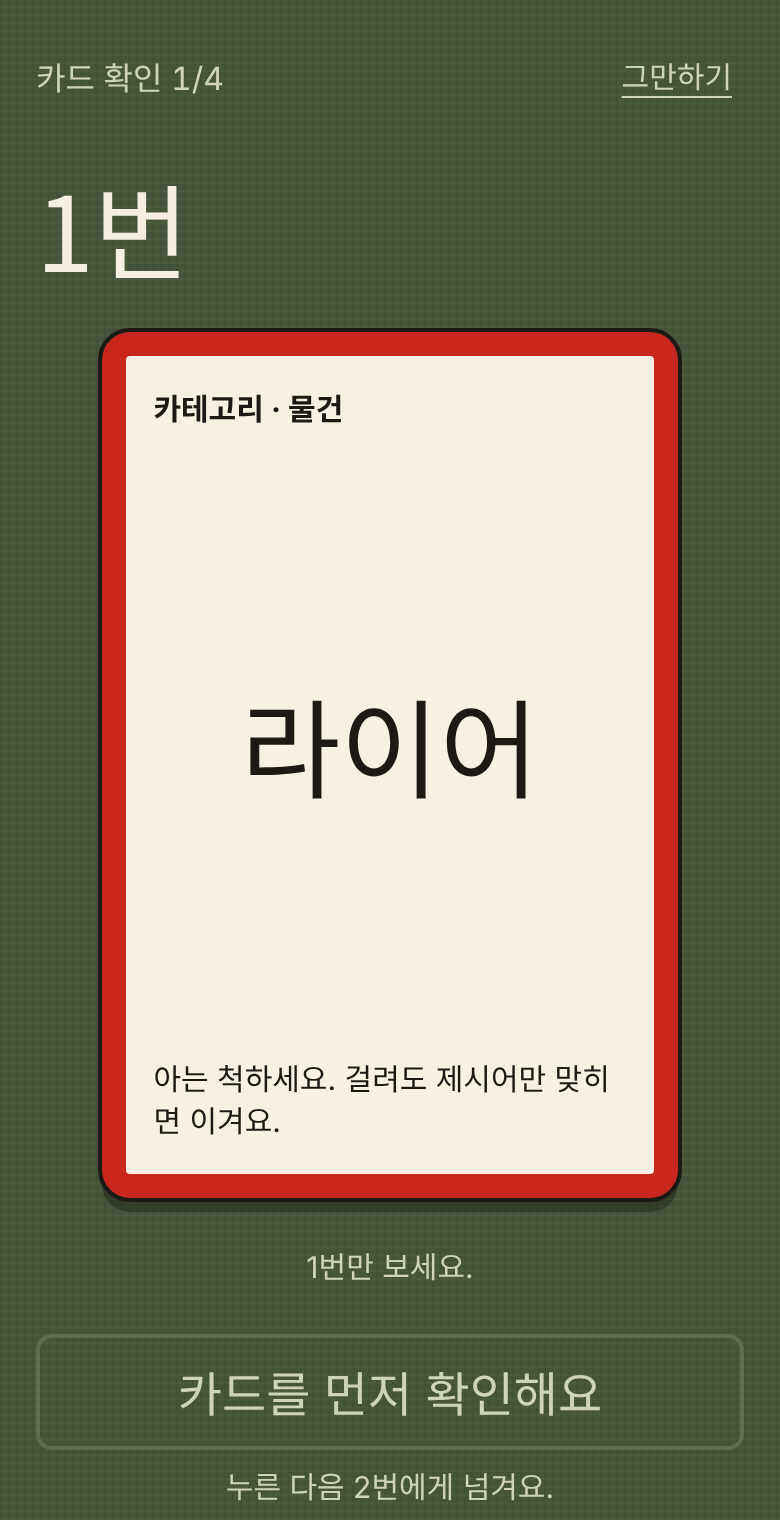
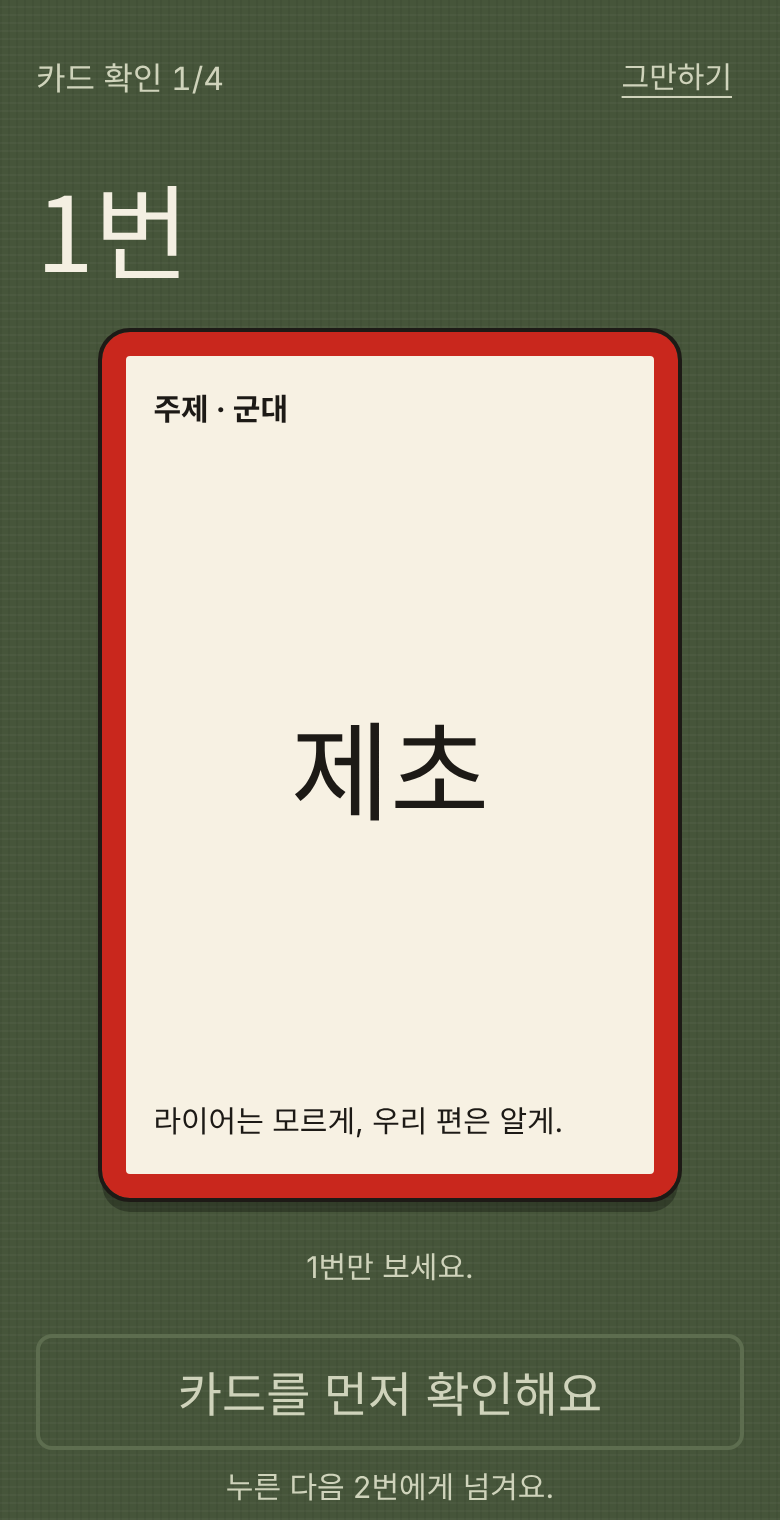
주제를 48개로 늘리고 AI로 단어 채우기 추가
- 기본 주제 8개 -> 48개 (주제마다 단어 20개)
- 주제 목록을 접었다 펴고 전체 선택/해제
- 주제 이름만 적으면 Claude가 단어를 채워 줌 (Claude 아티팩트에서만)
- 화면 용어를 카테고리에서 주제로 통일
- 테스트에 기본 주제 검사와 AI 채우기 추가

Claude-Session: https://claude.ai/code/session_01N2Wa5YXu4LxH5pypAMPZBK

diff --git a/index.html b/index.html
@@ -76,6 +76,7 @@ textarea{min-height:84px;resize:vertical}
 .btn:active:not(:disabled){transform:translateY(2px)}
 .acts{display:flex;flex-direction:column;gap:8px;margin-top:auto}
 .acts .row{display:flex;justify-content:space-between}
+.btn.half{flex:1 1 0;width:auto}
 .acts.stick{position:sticky;bottom:0;padding:10px 0 12px;margin-bottom:-12px;background:var(--felt)}
 header,.stage>div:not([class]),.col>div:not([class]){display:flex;flex-direction:column;gap:8px}
 
@@ -146,27 +147,67 @@ header,.stage>div:not([class]),.col>div:not([class]){display:flex;flex-direction
 'use strict';
 var BUILTIN={
  '음식':['김치찌개','떡볶이','삼겹살','치킨','피자','초밥','라면','비빔밥','짜장면','햄버거','냉면','김밥','파스타','순대국','마라탕','돈가스','족발','칼국수','불고기','타코'],
- '동물':['강아지','고양이','코끼리','기린','펭귄','호랑이','돌고래','토끼','판다','캥거루','독수리','악어','고슴도치','수달','낙타','문어','여우','하마','올빼미','카멜레온'],
+ '분식':['순대','튀김','어묵','쫄면','만두','핫도그','토스트','컵밥','주먹밥','라볶이','우동','잔치국수','비빔국수','김말이','오징어튀김','계란빵','닭꼬치','떡꼬치','군만두','치즈 김밥'],
+ '과일':['사과','배','포도','수박','참외','딸기','바나나','망고','복숭아','자두','귤','오렌지','파인애플','키위','체리','블루베리','감','석류','멜론','레몬'],
+ '채소':['배추','무','당근','양파','마늘','오이','가지','호박','시금치','상추','깻잎','고추','파프리카','브로콜리','감자','고구마','버섯','콩나물','대파','토마토'],
+ '디저트':['마카롱','티라미수','붕어빵','호떡','빙수','아이스크림','와플','도넛','케이크','푸딩','탕후루','약과','크루아상','초콜릿','젤리','츄러스','에그타르트','찹쌀떡','쿠키','소금빵'],
+ '음료':['아메리카노','콜라','사이다','식혜','수정과','우유','두유','녹차','버블티','레모네이드','스무디','핫초코','에너지 드링크','이온 음료','매실차','유자차','카페라테','토마토 주스','탄산수','미숫가루'],
+ '술과 안주':['소주','맥주','막걸리','와인','하이볼','소맥','위스키','칵테일','노가리','골뱅이무침','먹태','닭발','오돌뼈','계란말이','어묵탕','파전','마른오징어','감자튀김','두부김치','나초'],
+ '편의점':['삼각김밥','컵라면','도시락','바나나우유','핫바','소시지','샌드위치','컵얼음','숙취해소제','캔커피','초코바','껌','생수','구운 계란','요구르트','봉지 과자','호빵','즉석 떡볶이','택배 접수','1+1 행사'],
  '장소':['편의점','찜질방','노래방','공항','도서관','놀이공원','영화관','병원','헬스장','수영장','지하철역','PC방','미용실','캠핑장','박물관','백화점','야구장','고속도로 휴게소','워터파크','전통시장'],
- '직업':['의사','소방관','요리사','유튜버','경찰','선생님','파일럿','프로게이머','아이돌','변호사','택배기사','바리스타','농부','기자','수의사','통역사','사진작가','개발자','아나운서','헬스 트레이너'],
- '스포츠':['축구','야구','농구','배드민턴','탁구','수영','볼링','골프','테니스','스키','양궁','태권도','클라이밍','서핑','마라톤','배구','복싱','컬링','펜싱','당구'],
- '물건':['우산','충전기','칫솔','선풍기','냉장고','이어폰','안경','손톱깎이','드라이기','전자레인지','리모컨','베개','지갑','보조배터리','슬리퍼','텀블러','마스크','가위','시계','거울'],
+ '동네 가게':['세탁소','철물점','문구점','빵집','정육점','꽃집','약국','안경점','부동산','카페','치킨집','분식집','중국집','당구장','네일숍','사진관','은행','우체국','주민센터','떡집'],
+ '집':['거실','부엌','화장실','베란다','현관','옷장','침대','소파','식탁','책상','신발장','창문','천장','계단','옥상','지하실','다락방','마당','차고','엘리베이터'],
  '여행지':['제주도','부산','도쿄','오사카','파리','뉴욕','방콕','다낭','하와이','런던','로마','강릉','경주','타이베이','홍콩','바르셀로나','삿포로','싱가포르','여수','발리'],
- '여행 중':['여권','면세점','숙소','렌터카','기내식','조식 뷔페','셀카봉','환전','야시장','온천','기념품','비행기 지연','멀미','캐리어','일출','바비큐','불꽃놀이','계곡','게스트하우스','노을']
+ '여행 중':['여권','면세점','숙소','렌터카','기내식','조식 뷔페','셀카봉','환전','야시장','온천','기념품','비행기 지연','멀미','캐리어','일출','바비큐','불꽃놀이','계곡','게스트하우스','노을'],
+ '캠핑과 펜션':['텐트','모닥불','마시멜로','랜턴','침낭','모기향','해먹','아이스박스','숯','장작','코펠','버너','별 보기','수영장','노래방 기계','폭죽','고기 굽기','설거지 당번','늦잠','단체 사진'],
+ '한국 도시':['서울','부산','대구','인천','광주','대전','울산','수원','춘천','강릉','전주','경주','여수','목포','제주','속초','안동','통영','포항','천안'],
+ '나라':['미국','일본','중국','프랑스','영국','독일','이탈리아','스페인','브라질','호주','캐나다','인도','태국','베트남','이집트','튀르키예','멕시코','러시아','스위스','아르헨티나'],
+ '놀이공원':['롤러코스터','바이킹','회전목마','범퍼카','자이로드롭','관람차','귀신의 집','후룸라이드','머리띠','퍼레이드','자유이용권','대기 줄','회전컵','사파리','솜사탕','우선 탑승권','미아보호소','기념품 가게','야간 개장','교복 대여'],
+ '직업':['의사','소방관','요리사','유튜버','경찰','선생님','파일럿','프로게이머','아이돌','변호사','택배기사','바리스타','농부','기자','수의사','통역사','사진작가','개발자','아나운서','헬스 트레이너'],
+ '학교':['급식','수학여행','체육대회','조회','야자','매점','교무실','칠판','사물함','반장','시험','방학','교복','종례','급훈','짝꿍','운동장','보건실','도서실','졸업식'],
+ '과목':['국어','수학','영어','과학','사회','역사','체육','음악','미술','도덕','기술','가정','한문','물리','화학','생물','지리','정보','지구과학','윤리'],
+ '대학 생활':['수강신청','MT','개강','종강','과제','조별 과제','학점','동아리','축제','휴학','복학','장학금','자취','학식','교수님','시험 기간','밤샘','졸업 논문','새내기','과잠'],
+ '회사':['회식','야근','월급','연차','회의','출근','퇴근','점심 메뉴','명함','보고서','사직서','승진','인턴','팀장','재택근무','워크숍','법인카드','탕비실','면접','성과급'],
+ '군대':['훈련소','행군','불침번','PX','휴가','전역','이등병','병장','점호','유격','화생방','짬밥','관물대','생활관','위병소','제초','초코파이','군화','깔깔이','예비군'],
+ '돈':['용돈','적금','주식','로또','세금','대출','이자','현금','카드','더치페이','축의금','세뱃돈','월세','전세','보너스','비상금','코인','저금통','환율','연말정산'],
+ '물건':['우산','충전기','칫솔','선풍기','냉장고','이어폰','안경','손톱깎이','드라이기','전자레인지','리모컨','베개','지갑','보조배터리','슬리퍼','텀블러','마스크','가위','시계','거울'],
+ '가전':['세탁기','에어컨','청소기','TV','공기청정기','식기세척기','건조기','밥솥','에어프라이어','가습기','제습기','로봇청소기','정수기','인덕션','전기장판','믹서기','토스터','커피머신','안마의자','스피커'],
+ '옷':['청바지','후드티','패딩','코트','정장','한복','수영복','잠옷','양말','모자','목도리','장갑','운동화','구두','원피스','조끼','레깅스','넥타이','반바지','트레이닝복'],
+ '문구':['연필','지우개','볼펜','형광펜','자','풀','테이프','스테이플러','포스트잇','공책','필통','샤프','수정테이프','컴퍼스','클립','색연필','크레파스','다이어리','계산기','스티커'],
+ '탈것':['버스','지하철','택시','기차','비행기','배','자전거','오토바이','킥보드','트럭','구급차','소방차','케이블카','헬리콥터','요트','잠수함','열기구','스쿠터','캠핑카','유모차'],
+ '신체':['눈','코','입','귀','손','발','무릎','팔꿈치','어깨','배꼽','눈썹','혀','이마','턱','손톱','발바닥','엉덩이','목','머리카락','새끼손가락'],
+ '동물':['강아지','고양이','코끼리','기린','펭귄','호랑이','돌고래','토끼','판다','캥거루','독수리','악어','고슴도치','수달','낙타','문어','여우','하마','올빼미','카멜레온'],
+ '바다 생물':['고래','상어','오징어','해파리','불가사리','거북이','새우','게','가재','조개','해마','가오리','참치','고등어','멸치','복어','바다표범','산호','전복','성게'],
+ '곤충과 벌레':['나비','벌','개미','모기','파리','매미','잠자리','메뚜기','사마귀','무당벌레','바퀴벌레','거미','지렁이','달팽이','장수풍뎅이','사슴벌레','반딧불이','귀뚜라미','송충이','노린재'],
+ '날씨와 자연':['비','눈','태풍','번개','무지개','안개','우박','황사','폭염','한파','장마','소나기','이슬','서리','지진','화산','파도','일식','오로라','별똥별'],
+ '명절과 기념일':['설날','추석','크리스마스','어린이날','어버이날','밸런타인데이','핼러윈','빼빼로데이','광복절','한글날','새해','스승의날','만우절','김장','벚꽃놀이','단풍놀이','첫눈','복날','대보름','생일'],
+ '색깔':['빨강','주황','노랑','초록','파랑','남색','보라','분홍','하늘색','갈색','검정','하양','회색','금색','은색','베이지','민트','연두','자주','카키'],
+ '스포츠':['축구','야구','농구','배드민턴','탁구','수영','볼링','골프','테니스','스키','양궁','태권도','클라이밍','서핑','마라톤','배구','복싱','컬링','펜싱','당구'],
+ '취미':['낚시','등산','캠핑','독서','뜨개질','요리','사진','그림','춤','노래','러닝','요가','필라테스','헬스','자전거','게임','영화 감상','여행','베이킹','식물 키우기'],
+ '악기':['피아노','기타','드럼','바이올린','첼로','플루트','트럼펫','색소폰','하모니카','리코더','우쿨렐레','장구','가야금','꽹과리','탬버린','실로폰','베이스','오카리나','캐스터네츠','트라이앵글'],
+ '음악 장르':['발라드','힙합','트로트','록','재즈','클래식','EDM','R&B','동요','국악','케이팝','인디','레게','메탈','OST','민요','캐럴','디스코','펑크','자장가'],
+ '영화 장르':['로맨스','액션','공포','코미디','SF','판타지','스릴러','다큐멘터리','애니메이션','뮤지컬','전쟁','좀비','재난','범죄','사극','히어로','추리','성장','청춘','첩보'],
+ '게임':['롤','오버워치','배틀그라운드','마인크래프트','스타크래프트','메이플스토리','카트라이더','FC 온라인','서든어택','테트리스','포켓몬','동물의 숲','젤다','마리오 카트','로블록스','발로란트','디아블로','리니지','던전앤파이터','쿠키런'],
+ '놀이와 보드게임':['윷놀이','화투','젠가','루미큐브','할리갈리','마피아','부루마불','체스','바둑','장기','오목','다트','포커','우노','숨바꼭질','무궁화 꽃이 피었습니다','공기놀이','딱지치기','제기차기','땅따먹기'],
+ '옛이야기와 동화':['흥부와 놀부','콩쥐팥쥐','심청전','춘향전','토끼와 거북이','해와 달이 된 오누이','선녀와 나무꾼','혹부리 영감','금도끼 은도끼','개미와 베짱이','신데렐라','백설공주','인어공주','피노키오','빨간 모자','아기 돼지 삼형제','헨젤과 그레텔','잭과 콩나무','미운 오리 새끼','성냥팔이 소녀'],
+ '초능력과 판타지':['투명 인간','순간 이동','시간 여행','하늘 날기','독심술','염력','불사신','변신','괴력','예지력','드래곤','마법사','요정','유니콘','뱀파이어','늑대인간','좀비','인어','도깨비','구미호'],
+ '인터넷':['인스타그램','유튜브','카카오톡','틱톡','넷플릭스','네이버','구글','좋아요','댓글','구독','라이브 방송','쇼츠','밈','이모티콘','단톡방','프로필 사진','스토리','알고리즘','언팔','읽음 표시'],
+ '감정':['기쁨','슬픔','분노','설렘','질투','부끄러움','외로움','뿌듯함','억울함','지루함','긴장','후회','그리움','짜증','감동','놀람','공포','안도','민망함','허무함'],
+ '연애':['썸','소개팅','고백','첫사랑','짝사랑','이별','기념일','커플링','데이트','밀당','프러포즈','결혼식','권태기','재회','읽씹','애칭','환승','삼각관계','장거리 연애','100일']
 };
 var KEY='liar-party-v1', MINP=3, MAXP=12, GUARD=350;
 var app=document.getElementById('app');
-var S, R=null, T=null, audio=null, lastScreen=null, lastKey=null, lastRenderAt=0;
+var S, R=null, T=null, AI=null, audio=null, lastScreen=null, lastKey=null, lastRenderAt=0;
 
 function defaults(){
   return {players:[1,2,3,4].map(function(i){return {name:'',score:0};}),
     mode:'basic',liars:1,spy:false,cats:Object.keys(BUILTIN),custom:{},
     speakSec:30,laps:1,discussSec:120,screen:'setup',used:[],draft:{name:'',words:''},draftErr:'',
-    namesOpen:false,catOpen:false,quit:false,skip:false};
+    namesOpen:false,catOpen:false,catsOpen:false,aiBusy:false,quit:false,skip:false};
 }
 function loadSaved(){ try{ return JSON.parse(localStorage.getItem(KEY)||'null')||{}; }catch(e){ return {}; } }
 function save(){
-  try{ localStorage.setItem(KEY,JSON.stringify({players:S.players,mode:S.mode,liars:S.liars,spy:S.spy,cats:S.cats,custom:S.custom,speakSec:S.speakSec,laps:S.laps,discussSec:S.discussSec,used:S.used,
+  try{ localStorage.setItem(KEY,JSON.stringify({players:S.players,mode:S.mode,liars:S.liars,spy:S.spy,cats:S.cats,custom:S.custom,speakSec:S.speakSec,laps:S.laps,discussSec:S.discussSec,used:S.used,catsV:2,
     round:(R&&S.screen!=='setup')?{R:R,screen:S.screen,at:Date.now()}:null})); }catch(e){}
 }
 function esc(s){ return String(s).replace(/[&<>"']/g,function(c){return {'&':'&amp;','<':'&lt;','>':'&gt;','"':'&quot;',"'":'&#39;'}[c];}); }
@@ -183,6 +224,17 @@ function batchim(s){
   return false;
 }
 function jo(i,a,b){ var s=raw(i); return esc(s)+(batchim(s)?a:b); }
+/* Words from a typed list or from an AI answer: a JSON array if there is one, otherwise lines and commas. */
+function parseWords(text){
+  var out=[], seen={}, a=text.indexOf('['), b=text.lastIndexOf(']'), list=null;
+  if(a>=0&&b>a){ try{ list=JSON.parse(text.slice(a,b+1)); }catch(e){ list=null; } }
+  if(!Array.isArray(list)) list=text.split(/[,\n]/);
+  list.forEach(function(w){
+    w=String(w).replace(/^[\s\-*·\d.)"'\[]+|[\s"'\],.]+$/g,'');
+    if(w&&w.length<=20&&!seen[w]&&out.length<40){ seen[w]=1; out.push(w); }
+  });
+  return out;
+}
 function maxLiars(n,spy){ return Math.max(1,n-(spy?1:0)); }
 function clamp(){
   var n=S.players.length;
@@ -321,23 +373,27 @@ function vSetup(){
 
   h+='<section class="sec"><h2>규칙</h2>'+
     '<div class="line"><span>모드</span>'+seg('mode',[['basic','기본'],['fool','바보']],S.mode)+'</div>'+
-    '<p class="note">'+(S.mode==='basic'?'라이어는 카테고리만 알아요.':'라이어는 다른 단어를 받고, 자기가 라이어인 줄 몰라요.')+'</p>'+
+    '<p class="note">'+(S.mode==='basic'?'라이어는 주제만 알아요.':'라이어는 다른 단어를 받고, 자기가 라이어인 줄 몰라요.')+'</p>'+
     '<div class="line"><span>라이어</span><div class="count"><button type="button" class="sq" data-a="liars" data-d="-1" aria-label="라이어 줄이기"'+(S.liars<=1?' disabled':'')+'>−</button><b>'+S.liars+'명</b><button type="button" class="sq" data-a="liars" data-d="1" aria-label="라이어 늘리기"'+(S.liars>=mL?' disabled':'')+'>+</button></div></div>'+
     (S.liars+(S.spy?1:0)>=n?'<p class="warn">시민이 한 명도 없는 판이에요. 점수는 안 매겨요.</p>':(S.mode==='fool'&&S.liars*2>=n?'<p class="warn">라이어가 절반 이상이면 가짜 단어가 다수가 돼요.</p>':''))+
     '<div class="line"><span>스파이</span>'+(n<4?'<span class="note" style="text-align:right">4명부터 넣을 수 있어요</span>':seg('spy',[['0','없음'],['1','1명']],S.spy?'1':'0'))+'</div>'+
     (S.spy?'<p class="note">스파이는 제시어를 알지만 라이어 편이에요.</p>':'')+'</section>';
 
-  h+='<section class="sec"><h2>제시어</h2><div class="tiles">'+Object.keys(cats).map(function(c){
+  var names=Object.keys(cats).sort(function(x,y){ return (S.custom[y]?1:0)-(S.custom[x]?1:0); });
+  var onN=names.filter(function(c){return S.cats.indexOf(c)>=0;}).length;
+  h+='<section class="sec"><div class="line"><h2>주제</h2><button type="button" class="text" data-a="cats-toggle">'+(S.catsOpen?'접기':'고르기')+'</button></div>'+
+    '<p class="note">'+names.length+'개 중 '+(onN?onN+'개에서':'전부에서')+' 무작위로 나와요.</p>';
+  if(S.catsOpen) h+='<div class="line"><button type="button" class="btn sm half" data-a="cats-all">전체 선택</button><button type="button" class="btn sm half" data-a="cats-none">전체 해제</button></div><div class="tiles">'+names.map(function(c){
     var on=S.cats.indexOf(c)>=0, cu=!!S.custom[c];
-    return '<span class="tile'+(on?' on':'')+'"><button type="button" data-a="cat" data-c="'+esc(c)+'" aria-pressed="'+on+'">'+(on?'✓ ':'')+esc(c)+' <small>'+cats[c].length+'</small></button>'+(cu?'<button type="button" class="rm" data-a="del-cat" data-c="'+esc(c)+'" aria-label="'+esc(c)+' 지우기">×</button>':'')+'</span>';
+    return '<span class="tile'+(on?' on':'')+'"><button type="button" data-a="cat" data-c="'+esc(c)+'" aria-pressed="'+on+'">'+(on?'✓ ':'')+esc(c)+'</button>'+(cu?'<button type="button" class="rm" data-a="del-cat" data-c="'+esc(c)+'" aria-label="'+esc(c)+' 지우기">×</button>':'')+'</span>';
   }).join('')+'</div>';
-  if(!S.cats.length) h+='<p class="warn">하나도 안 고르면 기본 카테고리 전체에서 나와요.</p>';
   if(S.catOpen) h+='<div class="form">'+
-    '<input type="text" id="ccName" maxlength="14" placeholder="카테고리 이름" value="'+esc(S.draft.name)+'" aria-label="카테고리 이름">'+
+    '<input type="text" id="ccName" maxlength="14" placeholder="주제 (예: 우리 과 교수님)" value="'+esc(S.draft.name)+'" aria-label="주제 이름">'+
+    (AI?'<button type="button" class="btn sm" data-a="ai-fill"'+(S.aiBusy?' disabled':'')+'>'+(S.aiBusy?'AI가 채우는 중…':'AI로 단어 채우기')+'</button>':'<p class="note">AI로 단어 채우기는 Claude에서 열었을 때만 쓸 수 있어요.</p>')+
     '<textarea id="ccWords" placeholder="단어를 쉼표나 줄바꿈으로 나눠서 4개 이상" aria-label="단어 목록">'+esc(S.draft.words)+'</textarea>'+
     (S.draftErr?'<p class="warn">'+esc(S.draftErr)+'</p>':'')+
-    '<button type="button" class="btn sm" data-a="add-cat">카테고리 저장</button><button type="button" class="text" data-a="cat-close">닫기</button></div>';
-  else h+='<button type="button" class="btn sm" data-a="cat-open">+ 카테고리 직접 만들기</button>';
+    '<button type="button" class="btn sm" data-a="add-cat">주제 저장</button><button type="button" class="text" data-a="cat-close">닫기</button></div>';
+  else h+='<button type="button" class="btn sm" data-a="cat-open">+ 주제 직접 만들기'+(AI?' · AI로 채우기':'')+'</button>';
   h+='</section>';
 
   h+='<section class="sec"><h2>시간</h2>'+
@@ -358,7 +414,7 @@ function scoreRows(deltas){
 }
 function wordSize(w){ return w.length<=4?'':(w.length<=7?' m':' s'); }
 function cardFace(i){
-  var r=R.roles[i], fool=S.mode==='fool', kind='카테고리 · '+esc(R.cat);
+  var r=R.roles[i], fool=S.mode==='fool', kind='주제 · '+esc(R.cat);
   if(r==='liar'&&!fool) return '<div class="kind">'+kind+'</div><div class="word">라이어</div><div class="tip">아는 척하세요. 걸려도 제시어만 맞히면 이겨요.</div>';
   if(r==='spy') return '<div class="kind">'+kind+' · 스파이</div><div class="word'+wordSize(R.word)+'">'+esc(R.word)+'</div><div class="tip">라이어 편이에요. 라이어가 안 잡히게 도와주세요.</div>';
   var w=(r==='liar')?R.fake:R.word;
@@ -380,7 +436,7 @@ function orderHTML(cur){
 }
 function vReady(){
   var p=R.order[0];
-  return topBar(esc(R.cat))+'<div class="stage"><div><h1 class="name xl" tabindex="-1">'+nm(p)+'부터</h1><p class="lead">카테고리는 '+esc(R.cat)+'. 한 문장씩 돌아가며 설명해요.</p></div>'+orderHTML(p)+'</div>'+
+  return topBar(esc(R.cat))+'<div class="stage"><div><h1 class="name xl" tabindex="-1">'+nm(p)+'부터</h1><p class="lead">주제는 '+esc(R.cat)+'. 한 문장씩 돌아가며 설명해요.</p></div>'+orderHTML(p)+'</div>'+
     '<div class="acts"><button type="button" class="btn go" data-a="begin">설명 시작</button></div>';
 }
 function vSpeak(){
@@ -476,16 +532,39 @@ var ACT={
   'liars':function(d){ S.liars+=+d.d; clamp(); },
   'cat':function(d){ var i=S.cats.indexOf(d.c); if(i>=0) S.cats.splice(i,1); else S.cats.push(d.c); },
   'del-cat':function(d){ delete S.custom[d.c]; clamp(); },
+  'cats-toggle':function(){ S.catsOpen=!S.catsOpen; },
+  'cats-all':function(){ S.cats=Object.keys(allCats()); },
+  'cats-none':function(){ S.cats=[]; },
+  'ai-fill':function(){
+    var topic=S.draft.name.trim();
+    if(!topic){ S.draftErr='주제를 먼저 적어 주세요.'; return; }
+    if(!AI||S.aiBusy) return;
+    S.aiBusy=true; S.draftErr='';
+    var done=function(){ S.aiBusy=false; if(S.screen==='setup') render(); };
+    AI('라이어 게임에 쓸 제시어를 만들어 줘.\n주제: '+topic+'\n조건: 이 주제에 속하는 한국어 단어나 짧은 명사구 20개. 한국의 20~30대 친구들이 대부분 아는 것만. 서로 겹치거나 너무 비슷한 것은 빼고, 하나는 12자 이내. 비속어와 혐오 표현은 빼.\n출력: JSON 문자열 배열 하나만. 다른 말은 쓰지 마.',{modelTier:'quick',cache:false}).then(function(res){
+      var got=parseWords(res&&res.text||''), have=parseWords(S.draft.words), seen={};
+      var all=have.concat(got).filter(function(w){ if(seen[w]) return false; seen[w]=1; return true; });
+      if(got.length<4) S.draftErr='단어를 못 받아 왔어요. 주제를 바꿔서 다시 해 보세요.';
+      else { S.draft.words=all.join(', '); S.draftErr=''; }
+      done();
+    },function(e){
+      var c=e&&e.code;
+      if(c==='not_granted'){ AI=null; S.draftErr='AI 사용을 허용하지 않아서 직접 적어야 해요.'; }
+      else if(c==='rate_limited') S.draftErr='잠깐 쉬었다가 다시 눌러 주세요.';
+      else S.draftErr='AI가 응답하지 않았어요. 인터넷을 확인하고 다시 해 보세요.';
+      done();
+    });
+  },
   'cat-open':function(){ S.catOpen=true; },
   'cat-close':function(){ S.catOpen=false; S.draftErr=''; },
   'add-cat':function(){
-    var name=S.draft.name.trim(), seen={}, words=S.draft.words.split(/[,\n]/).map(function(w){return w.trim();}).filter(function(w){ if(!w||seen[w]) return false; seen[w]=1; return true; });
-    if(!name){ S.draftErr='카테고리 이름을 적어 주세요.'; return; }
+    var name=S.draft.name.trim(), words=parseWords(S.draft.words);
+    if(!name){ S.draftErr='주제 이름을 적어 주세요.'; return; }
     var own=Object.prototype.hasOwnProperty;
-    if(own.call(BUILTIN,name)||own.call(S.custom,name)||name==='__proto__'){ S.draftErr='같은 이름의 카테고리가 이미 있어요.'; return; }
+    if(own.call(BUILTIN,name)||own.call(S.custom,name)||name==='__proto__'){ S.draftErr='같은 이름의 주제가 이미 있어요.'; return; }
     if(words.length<4){ S.draftErr='단어가 '+words.length+'개예요. 4개 이상 적어 주세요.'; return; }
     S.custom[name]=words; if(S.cats.indexOf(name)<0) S.cats.push(name);
-    S.draft={name:'',words:''}; S.draftErr=''; S.catOpen=false;
+    S.draft={name:'',words:''}; S.draftErr=''; S.catOpen=false; S.catsOpen=true;
   },
   'reset-score':function(){ if(!S.quit){ S.quit=true; return; } S.players.forEach(function(p){p.score=0;}); S.quit=false; },
   'start':function(){ initAudio(); startRound(); },
@@ -565,11 +644,17 @@ function start(data){
   S.players.forEach(function(p,i){ if(/^플레이어 \d+$/.test(p.name||'')) p.name=''; });
   if(!S.custom||typeof S.custom!=='object') S.custom={};
   if(!Array.isArray(S.cats)) S.cats=Object.keys(BUILTIN);
+  if(sv.catsV!==2&&!(data&&data.S)) S.cats=Object.keys(allCats());
+  S.aiBusy=false; delete S.catsV;
   S.namesOpen=S.players.some(function(p){return (p.name||'').trim();});
   clamp();
   if(R){ R.seen=false; if(S.screen==='speak'||S.screen==='discuss') resumeTimer(); }
   render();
 }
+/* Asking Claude for words only exists when the page runs as a Claude artifact. Elsewhere AI stays null. */
+if(window.claude&&window.claude.use) try{
+  window.claude.use('sample').then(function(fn){ if(fn){ AI=fn; if(S&&S.screen==='setup') render(); } },function(){});
+}catch(e){}
 var hot=window.claude&&window.claude.hot;
 if(hot&&hot.snapshot) try{ hot.snapshot(function(){ return {S:S,R:R}; }); }catch(e){}
 if(hot&&hot.ready) hot.ready(start); else start((hot&&hot.data)||{});

diff --git a/tests/flow.test.js b/tests/flow.test.js
@@ -112,4 +112,36 @@ click('start');
 boot();
 assert(app.innerHTML.includes('카드 확인 1/7'), '새로고침 후 진행 중인 판이 이어지지 않음');
 
-console.log('ok: 8개 시나리오 통과');
+// 기본 주제: 40개 이상, 주제마다 겹치지 않는 단어 20개
+const BUILTIN = (0, eval)('(' + js.match(/var BUILTIN=(\{[\s\S]*?\n\});/)[1] + ')');
+assert(Object.keys(BUILTIN).length >= 40, '기본 주제가 40개보다 적음');
+for (const [name, words] of Object.entries(BUILTIN)) {
+  assert.strictEqual(words.length, 20, name + ' 단어 수');
+  assert.strictEqual(new Set(words).size, 20, name + '에 겹치는 단어가 있음');
+}
+
+// AI로 단어 채우기: Claude 아티팩트에서만 생기는 window.claude를 흉내 낸다
+(async () => {
+  for (const k of Object.keys(store)) delete store[k];
+  let asked = '';
+  const answer = '여기 있어요:\n["새우깡", "포카칩", "꼬깔콘", "새우깡", "홈런볼", "빼빼로"]';
+  global.window.claude = { use: (n) => Promise.resolve(n === 'sample' ? (input) => { asked = input; return Promise.resolve({ text: answer }); } : null) };
+  boot();
+  await new Promise((r) => setTimeout(r, 0));
+  click('cat-open');
+  assert(has('ai-fill'), 'AI 버튼이 안 보임');
+  H.input({ target: { dataset: {}, id: 'ccName', value: '과자' } });
+  click('ai-fill');
+  await new Promise((r) => setTimeout(r, 0));
+  assert(asked.includes('과자'), '주제가 AI에게 전달되지 않음');
+  assert(app.innerHTML.includes('새우깡, 포카칩, 꼬깔콘, 홈런볼, 빼빼로'), 'AI 단어가 채워지지 않음(중복 제거 포함)');
+  click('add-cat');
+  assert(app.innerHTML.includes('data-c="과자"'), '만든 주제가 목록에 없음');
+
+  delete global.window.claude;
+  boot();
+  click('cat-open');
+  assert(!has('ai-fill'), 'Claude 밖에서는 AI 버튼이 없어야 함');
+
+  console.log('ok: 판 8개, 기본 주제 ' + Object.keys(BUILTIN).length + '개, AI 채우기 통과');
+})().catch((e) => { console.error(e); process.exit(1); });

diff --git a/README.md b/README.md
@@ -47,7 +47,7 @@
 
 | 옵션 | 내용 |
 | --- | --- |
-| 기본 모드 | 라이어는 카테고리만 알고 제시어는 모릅니다. |
+| 기본 모드 | 라이어는 주제만 알고 제시어는 모릅니다. |
 | 바보 모드 | 라이어는 다른 단어를 받고, 자기가 라이어인 줄 모릅니다. |
 | 라이어 수 | 제한이 없습니다. 전원 라이어도 됩니다. |
 | 스파이 | 제시어를 알지만 라이어 편입니다. 4명부터 넣을 수 있습니다. |
@@ -63,10 +63,17 @@
 
 시민이 한 명도 없는 판은 점수를 매기지 않습니다.
 
-## 제시어
+## 주제
 
-음식, 동물, 장소, 직업, 스포츠, 물건, 여행지, 여행 중. 여덟 카테고리에 스무 단어씩 들어 있습니다.
-설정 화면의 **카테고리 직접 만들기**에서 단어 4개 이상으로 우리끼리만 아는 카테고리를 만들 수 있습니다.
+기본 주제가 48개, 주제마다 단어가 20개씩 들어 있습니다. 음식, 편의점, 술과 안주, 여행 중, 캠핑과 펜션, 학교, 회사, 군대, 연애, 게임, 초능력과 판타지 같은 것들입니다. 설정에서 **고르기**를 눌러 나올 주제를 정합니다.
+
+**주제 직접 만들기**에서 단어 4개 이상으로 우리끼리만 아는 주제를 만들 수 있습니다.
+
+### AI로 단어 채우기
+
+주제 이름만 적고 **AI로 단어 채우기**를 누르면 단어 스무 개 남짓이 채워집니다. 채워진 목록은 저장하기 전에 고칠 수 있습니다.
+
+이 버튼은 게임을 Claude 아티팩트로 열었을 때만 나옵니다. 아티팩트가 주는 `claude.use("sample")`로 Claude에게 묻기 때문입니다. `index.html`을 그냥 열면 버튼 대신 안내 문구가 보이고, 나머지 기능은 똑같이 동작합니다.
 
 ## 개발
 
@@ -82,7 +89,7 @@ docs/                README에 쓰는 이미지
 node tests/flow.test.js
 ```
 
-테스트는 가짜 DOM 위에서 여덟 가지 판을 돌립니다. 시민 승리, 역전승, 지목 실패, 두 번 연속 동점, 바보 모드, 시민 없는 판, 전원 라이어, 새로고침 후 이어 하기입니다.
+테스트는 가짜 DOM 위에서 여덟 가지 판을 돌립니다. 시민 승리, 역전승, 지목 실패, 두 번 연속 동점, 바보 모드, 시민 없는 판, 전원 라이어, 새로고침 후 이어 하기입니다. 기본 주제의 단어 수와 중복, AI로 단어 채우기도 함께 확인합니다.
 
 ## 디자인
 
@@ -94,6 +101,7 @@ node tests/flow.test.js
 
 ## 알려진 한계
 
-- 직접 만든 카테고리는 단어가 적을수록 잡힌 라이어가 제시어를 찍어 맞히기 쉽습니다.
+- 직접 만든 주제는 단어가 적을수록 잡힌 라이어가 제시어를 찍어 맞히기 쉽습니다.
+- AI로 단어 채우기는 Claude 아티팩트 밖에서는 쓸 수 없습니다.
 - 본 카드를 다시 볼 방법이 없습니다. 남의 카드도 열 수 있게 되어서 넣지 않았습니다.
 - 실제 폰 여러 대에서 손으로 누르는 동작을 충분히 확인하지 못했습니다.
